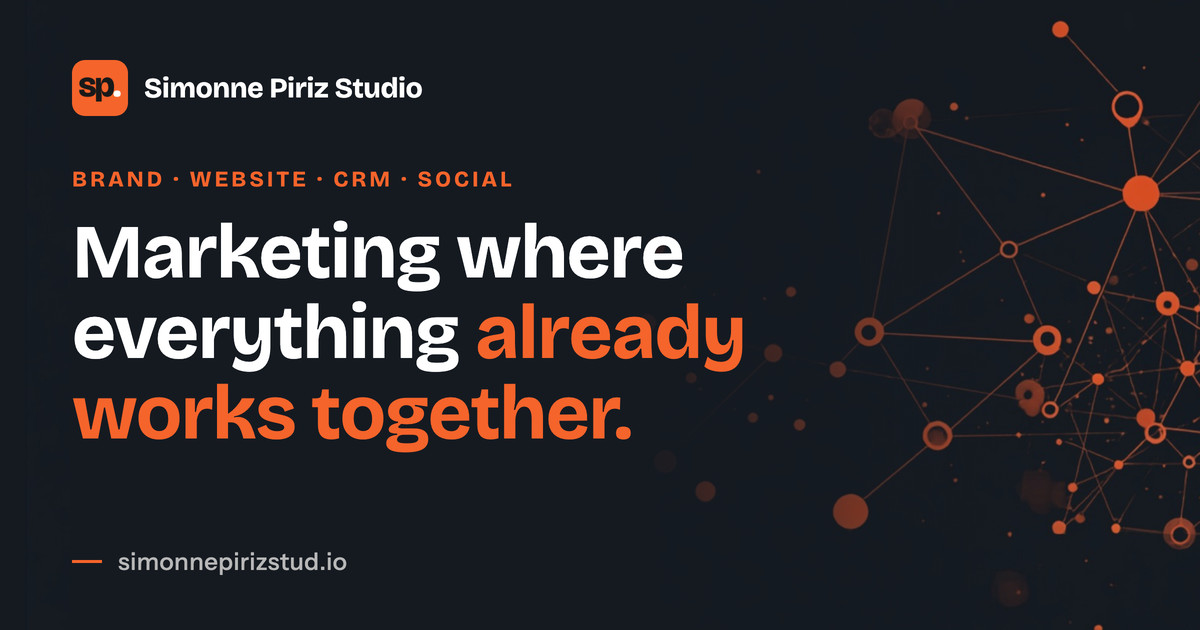
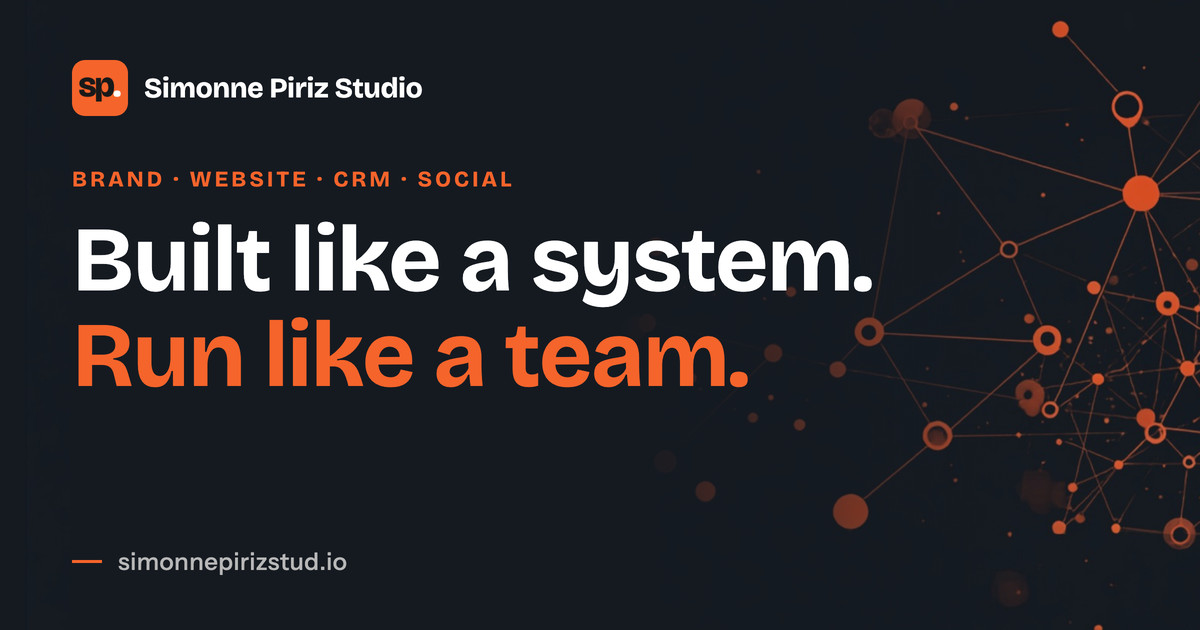
Use "Built like a system. Run like a team." as the homepage headline

Changed region(s): [[0.0617, 0.3317, 0.74, 0.7238]]

diff --git a/index.html b/index.html
@@ -3,20 +3,20 @@
 <head>
 <meta charset="UTF-8">
 <meta name="viewport" content="width=device-width, initial-scale=1.0">
-<title>Simonne Piriz Studio | Marketing where everything already works together</title>
+<title>Simonne Piriz Studio | Built like a system. Run like a team.</title>
 <meta name="description" content="Brand, website, CRM, and social, set up your way and run by a team of AI agents under my direction. I review it, you approve it.">
 <link rel="icon" href="/favicon.ico" sizes="any">
 <link rel="icon" type="image/png" sizes="192x192" href="/icon-192.png">
 <link rel="apple-touch-icon" href="/apple-touch-icon.png">
 <meta property="og:type" content="website">
 <meta property="og:site_name" content="Simonne Piriz Studio">
-<meta property="og:title" content="Simonne Piriz Studio | Marketing where everything already works together">
+<meta property="og:title" content="Simonne Piriz Studio | Built like a system. Run like a team.">
 <meta property="og:description" content="Brand, website, CRM, and social, set up your way and run by a team of AI agents under my direction. I review it, you approve it.">
 <meta property="og:url" content="https://simonnepirizstud.io/">
 <meta property="og:image" content="https://simonnepirizstud.io/og-image.jpg">
 <meta property="og:image:width" content="1200">
 <meta property="og:image:height" content="630">
-<meta property="og:image:alt" content="Simonne Piriz Studio: Marketing where everything already works together. Brand, website, CRM, and social.">
+<meta property="og:image:alt" content="Simonne Piriz Studio: Built like a system. Run like a team. Brand, website, CRM, and social.">
 <meta name="twitter:card" content="summary_large_image">
 <link rel="stylesheet" href="https://fonts.googleapis.com/css2?family=Bricolage+Grotesque:wght@500;700&family=Instrument+Sans:wght@400;500;600;700&display=swap">
 <link rel="stylesheet" href="styles.css">
@@ -37,8 +37,8 @@
 
 <section class="hero has-graphic">
   <div class="wrap">
-    <div class="eyebrow">Marketing Technology, Built and Managed</div>
-    <h1 class="heading">Marketing where everything already works together.</h1>
+    <div class="eyebrow">Brand &middot; Website &middot; CRM &middot; Social</div>
+    <h1 class="heading">Built like a system.<br>Run like a team.</h1>
     <p class="lede">Brand, website, CRM, and social, set up the way you want and managed the way you want. A team of AI agents runs it, I review it, and you approve it.</p>
     <div class="cta">
       <a class="btn" href="/contact">Get a Free Consultation</a>

diff --git a/about.html b/about.html
@@ -16,7 +16,7 @@
 <meta property="og:image" content="https://simonnepirizstud.io/og-image.jpg">
 <meta property="og:image:width" content="1200">
 <meta property="og:image:height" content="630">
-<meta property="og:image:alt" content="Simonne Piriz Studio: Marketing where everything already works together. Brand, website, CRM, and social.">
+<meta property="og:image:alt" content="Simonne Piriz Studio: Built like a system. Run like a team. Brand, website, CRM, and social.">
 <meta name="twitter:card" content="summary_large_image">
 <link rel="stylesheet" href="https://fonts.googleapis.com/css2?family=Bricolage+Grotesque:wght@500;700&family=Instrument+Sans:wght@400;500;600;700&display=swap">
 <link rel="stylesheet" href="styles.css">

diff --git a/contact.html b/contact.html
@@ -16,7 +16,7 @@
 <meta property="og:image" content="https://simonnepirizstud.io/og-image.jpg">
 <meta property="og:image:width" content="1200">
 <meta property="og:image:height" content="630">
-<meta property="og:image:alt" content="Simonne Piriz Studio: Marketing where everything already works together. Brand, website, CRM, and social.">
+<meta property="og:image:alt" content="Simonne Piriz Studio: Built like a system. Run like a team. Brand, website, CRM, and social.">
 <meta name="twitter:card" content="summary_large_image">
 <link rel="stylesheet" href="https://fonts.googleapis.com/css2?family=Bricolage+Grotesque:wght@500;700&family=Instrument+Sans:wght@400;500;600;700&display=swap">
 <link rel="stylesheet" href="styles.css">

diff --git a/privacy.html b/privacy.html
@@ -16,7 +16,7 @@
 <meta property="og:image" content="https://simonnepirizstud.io/og-image.jpg">
 <meta property="og:image:width" content="1200">
 <meta property="og:image:height" content="630">
-<meta property="og:image:alt" content="Simonne Piriz Studio: Marketing where everything already works together. Brand, website, CRM, and social.">
+<meta property="og:image:alt" content="Simonne Piriz Studio: Built like a system. Run like a team. Brand, website, CRM, and social.">
 <meta name="twitter:card" content="summary_large_image">
 <link rel="stylesheet" href="https://fonts.googleapis.com/css2?family=Bricolage+Grotesque:wght@500;700&family=Instrument+Sans:wght@400;500;600;700&display=swap">
 <link rel="stylesheet" href="styles.css">

diff --git a/services.html b/services.html
@@ -16,7 +16,7 @@
 <meta property="og:image" content="https://simonnepirizstud.io/og-image.jpg">
 <meta property="og:image:width" content="1200">
 <meta property="og:image:height" content="630">
-<meta property="og:image:alt" content="Simonne Piriz Studio: Marketing where everything already works together. Brand, website, CRM, and social.">
+<meta property="og:image:alt" content="Simonne Piriz Studio: Built like a system. Run like a team. Brand, website, CRM, and social.">
 <meta name="twitter:card" content="summary_large_image">
 <link rel="stylesheet" href="https://fonts.googleapis.com/css2?family=Bricolage+Grotesque:wght@500;700&family=Instrument+Sans:wght@400;500;600;700&display=swap">
 <link rel="stylesheet" href="styles.css">

diff --git a/terms.html b/terms.html
@@ -16,7 +16,7 @@
 <meta property="og:image" content="https://simonnepirizstud.io/og-image.jpg">
 <meta property="og:image:width" content="1200">
 <meta property="og:image:height" content="630">
-<meta property="og:image:alt" content="Simonne Piriz Studio: Marketing where everything already works together. Brand, website, CRM, and social.">
+<meta property="og:image:alt" content="Simonne Piriz Studio: Built like a system. Run like a team. Brand, website, CRM, and social.">
 <meta name="twitter:card" content="summary_large_image">
 <link rel="stylesheet" href="https://fonts.googleapis.com/css2?family=Bricolage+Grotesque:wght@500;700&family=Instrument+Sans:wght@400;500;600;700&display=swap">
 <link rel="stylesheet" href="styles.css">
